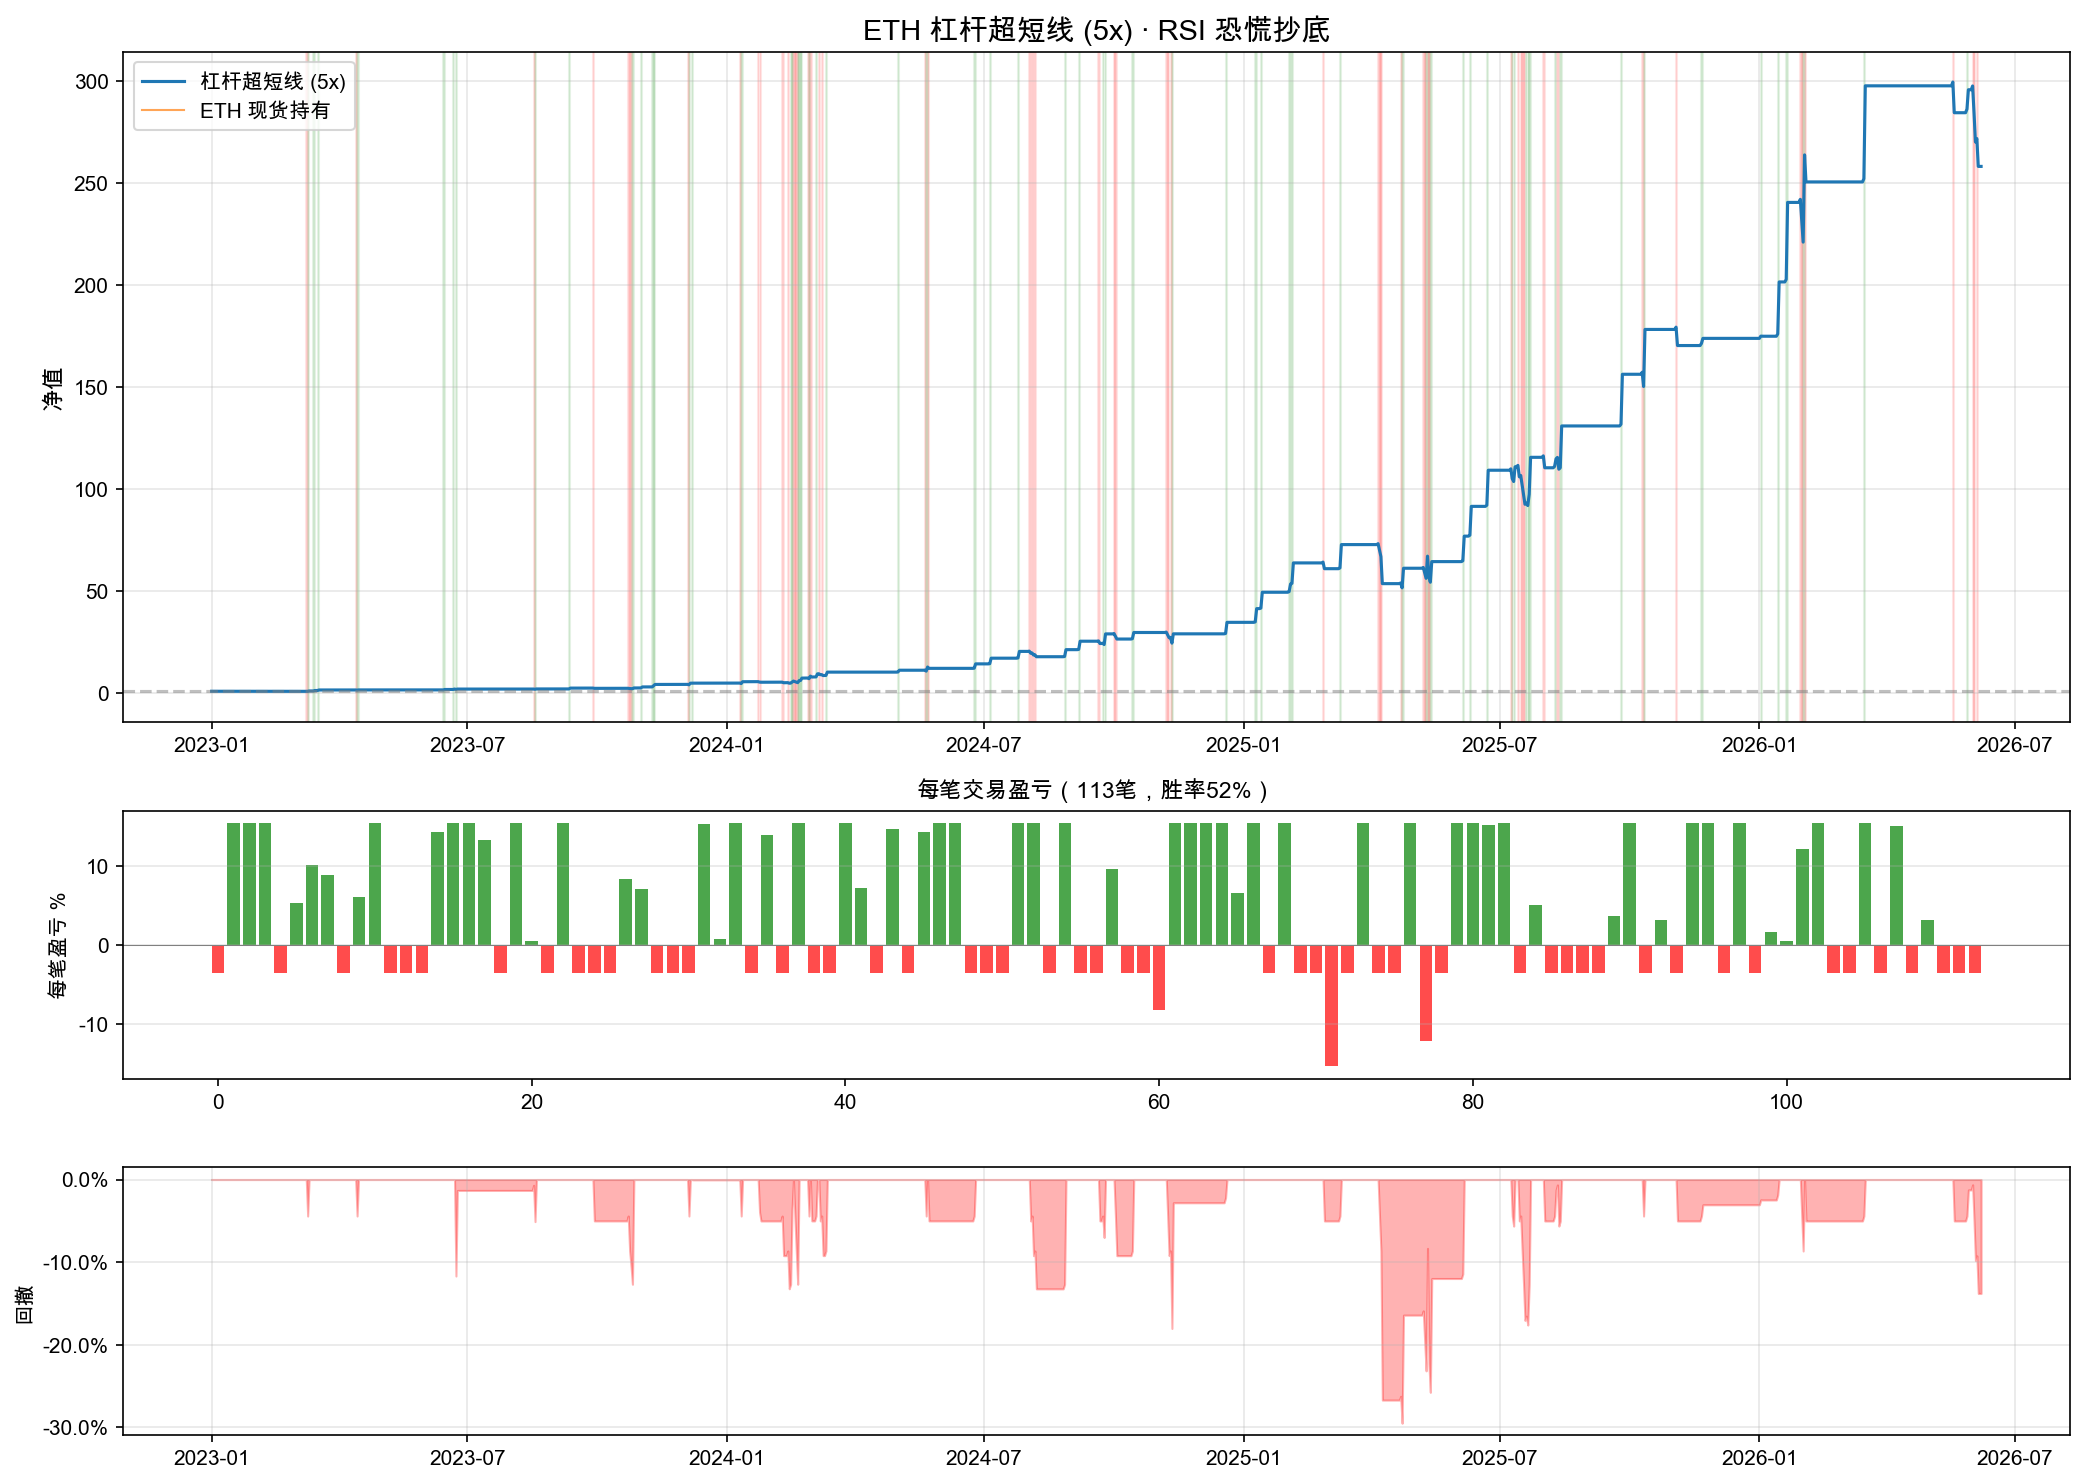
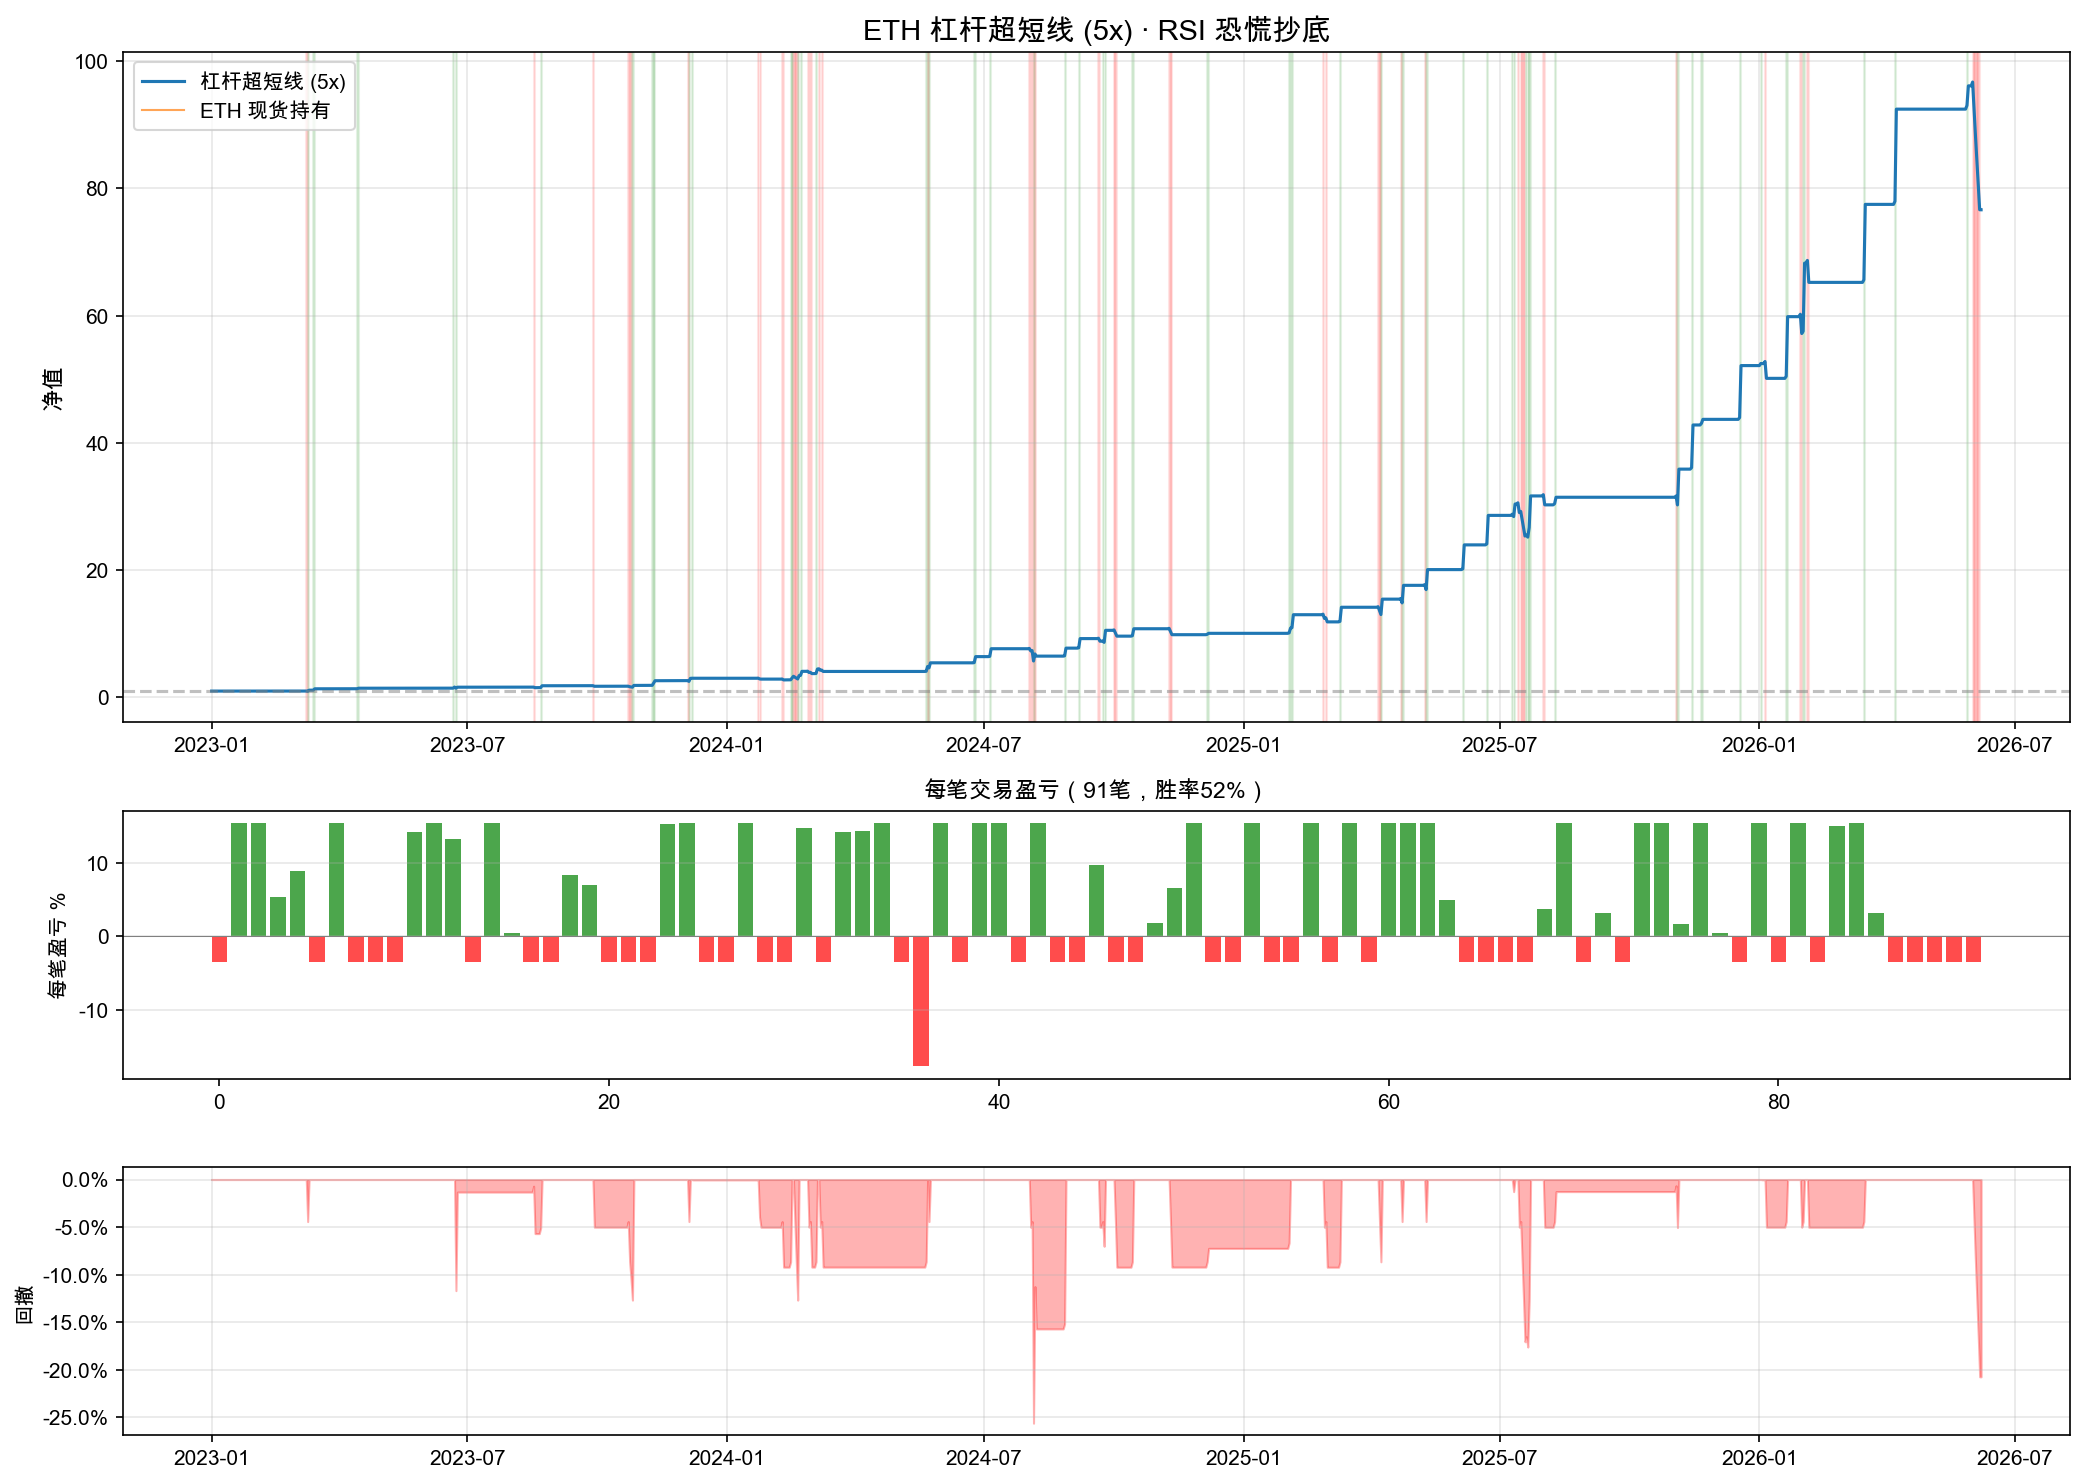
feat: 事件日历过滤器（FOMC/CPI日不开仓）

diff --git a/analyze_wicks.py b/analyze_wicks.py
@@ -1,0 +1,187 @@
+"""分析 ETH 超短线策略的三次插针"""
+import numpy as np
+import pandas as pd
+import yfinance as yf
+
+LEVERAGE = 10
+RISK = 0.05
+SL = 0.004
+TP = 0.015
+RSI_P = 5
+RSI_L = 25
+RSI_S = 78
+MAKER = 0.0002
+LIMIT_O = 0.0005
+LIMIT_F = 0.85
+TRAIL = 0.004
+MAX_H = 3
+WICK = 0.08
+
+def rsi(c, p):
+    d = c.diff()
+    g = d.clip(lower=0)
+    l = (-d).clip(lower=0)
+    return 100 - 100 / (1 + g.ewm(alpha=1/p, adjust=False).mean() /
+                         l.ewm(alpha=1/p, adjust=False).mean().replace(0, 1e-10))
+
+np.random.seed(42)
+
+df = yf.Ticker('ETH-USD').history(start='2023-01-01', end='2026-06-08')
+df = df.reset_index()
+df.columns = [c.lower() for c in df.columns]
+df['date'] = pd.to_datetime(df['date']).dt.tz_localize(None)
+df['rsi'] = rsi(df['close'], RSI_P)
+df['atr14'] = (df['high'] - df['low']).rolling(14).mean()
+df['vol_ma20'] = df['volume'].rolling(20).mean()
+df['vol_ratio'] = df['volume'] / df['vol_ma20']
+
+eq = 10000.0
+pos_val = 0.0
+entry_p = 0.0
+bars = 0
+in_pos = False
+direction = ''
+highest = 0.0
+lowest = 0.0
+entry_fee_rate = MAKER
+cnt = 0
+wick_trades = []
+all_trades = []
+
+for i, row in df.iterrows():
+    if i < 30:
+        continue
+    d = row['date']
+    p = row['close']
+    ph = row['high']
+    pl = row['low']
+    rsi_v = row['rsi']
+    vol_r = row['vol_ratio']
+
+    if in_pos:
+        bars += 1
+        highest = max(highest, ph)
+        lowest = min(lowest, pl)
+        pc = ((p - entry_p) / entry_p) if direction == 'long' else ((entry_p - p) / entry_p)
+
+        atr_p = row['atr14'] / p
+        dr = (ph - pl) / p
+        is_wick = dr > 1.5 * atr_p and np.random.random() < WICK
+
+        exit_p = None
+        reason = ''
+
+        if is_wick:
+            wd = np.random.uniform(2, 5)
+            if direction == 'long' and pl < entry_p * (1 - SL * wd):
+                exit_p = entry_p * (1 - SL * wd)
+                reason = '插针'
+            elif direction == 'short' and ph > entry_p * (1 + SL * wd):
+                exit_p = entry_p * (1 + SL * wd)
+                reason = '插针'
+
+        if not exit_p:
+            if pc >= TP:
+                exit_p = entry_p * (1 + TP if direction == 'long' else 1 - TP)
+                reason = '止盈'
+            elif pc <= -SL:
+                exit_p = entry_p * (1 - SL if direction == 'long' else 1 + SL)
+                reason = '止损'
+            elif highest > entry_p and direction == 'long':
+                dd = (highest - p) / entry_p
+                if dd > TRAIL and pc > 0:
+                    exit_p = p
+                    reason = '移动止盈'
+            elif lowest < entry_p and direction == 'short':
+                rally = (p - lowest) / entry_p
+                if rally > TRAIL and pc > 0:
+                    exit_p = p
+                    reason = '移动止盈'
+            elif bars >= MAX_H:
+                exit_p = p
+                reason = '超时'
+            elif direction == 'long' and not pd.isna(rsi_v) and rsi_v > 70:
+                exit_p = p
+                reason = 'RSI回落'
+            elif direction == 'short' and not pd.isna(rsi_v) and rsi_v < 35:
+                exit_p = p
+                reason = 'RSI回升'
+
+        if exit_p is not None:
+            ef = exit_p * (1 + LIMIT_O if direction == 'long' else 1 - LIMIT_O)
+            if direction == 'long':
+                pnl = (ef / entry_p - 1) * LEVERAGE
+            else:
+                pnl = (1 - ef / entry_p) * LEVERAGE
+            eq += pos_val * pnl - pos_val * (MAKER + entry_fee_rate)
+            cnt += 1
+
+            trade = {
+                'cnt': cnt, 'dir': direction, 'entry_date': entry_date, 'exit_date': d,
+                'entry_price': entry_p, 'exit_price': ef,
+                'pnl_pct': pnl * 100, 'reason': reason, 'bars': bars,
+                'daily_range': (ph - pl) / p * 100,
+                'atr_pct': row['atr14'] / p * 100,
+                'rsi_at_entry': entry_rsi,
+                'price_low': pl, 'price_high': ph,
+            }
+            all_trades.append(trade)
+            if reason == '插针':
+                wick_trades.append(trade)
+            pos_val = 0
+            in_pos = False
+
+    if not in_pos and not pd.isna(rsi_v):
+        direction = None
+        ls = rsi_v < RSI_L and vol_r > 1.2 and p > pl * 1.003
+        ss = rsi_v > RSI_S and vol_r > 1.2 and p < ph * 0.997
+        if ls:
+            direction = 'long'
+        elif ss:
+            direction = 'short'
+        if direction and np.random.random() < LIMIT_F:
+            pos_val = min(eq * RISK / (SL * LEVERAGE), eq * LEVERAGE)
+            entry_p = p * (1 - LIMIT_O if direction == 'long' else 1 + LIMIT_O)
+            entry_fee_rate = MAKER
+            highest = entry_p
+            lowest = entry_p
+            bars = 0
+            entry_date = d
+            entry_rsi = rsi_v
+            in_pos = True
+
+print(f'总交易: {cnt} 笔, 其中插针: {len(wick_trades)} 次\n')
+
+for j, w in enumerate(wick_trades):
+    arrow = "📈 做多" if w['dir'] == 'long' else "📉 做空"
+    normal_sl_loss = -SL * LEVERAGE * 100
+    print("=" * 60)
+    print(f"  ⚡ 插针 #{j+1}")
+    print("=" * 60)
+    print(f"  方向:         {arrow}")
+    print(f"  入场时间:     {str(w['entry_date'])[:10]}")
+    print(f"  插针时间:     {str(w['exit_date'])[:10]}")
+    print(f"  持仓:         {w['bars']} 天")
+    print(f"  入场价:       ${w['entry_price']:,.2f}")
+    print(f"  被针到:       ${w['exit_price']:,.2f}")
+    print(f"  实际亏损:     {w['pnl_pct']:.1f}%")
+    print(f"  正常止损应亏:  {normal_sl_loss:.1f}%")
+    print(f"  多亏了:       {abs(w['pnl_pct']) - abs(normal_sl_loss):.1f}%")
+    print(f"  ──────────────────────────────")
+    print(f"  当日振幅:     {w['daily_range']:.1f}%  (正常 ATR: {w['atr_pct']:.1f}%)")
+    print(f"  入场时 RSI:   {w['rsi_at_entry']:.1f}")
+    print(f"  当日最低:     ${w['price_low']:,.2f}")
+    print(f"  当日最高:     ${w['price_high']:,.2f}")
+    print()
+    print(f"  原因分析:")
+    if w['dir'] == 'long':
+        sl_price = w['entry_price'] * (1 - SL)
+        print(f"    预设止损价: ${sl_price:,.2f}")
+        print(f"    实际最低:   ${w['price_low']:,.2f}")
+        print(f"    价格直接穿透止损，在更低的位置才成交")
+    else:
+        sl_price = w['entry_price'] * (1 + SL)
+        print(f"    预设止损价: ${sl_price:,.2f}")
+        print(f"    实际最高:   ${w['price_high']:,.2f}")
+        print(f"    价格直接突破止损，在更高位置才成交")
+    print()
